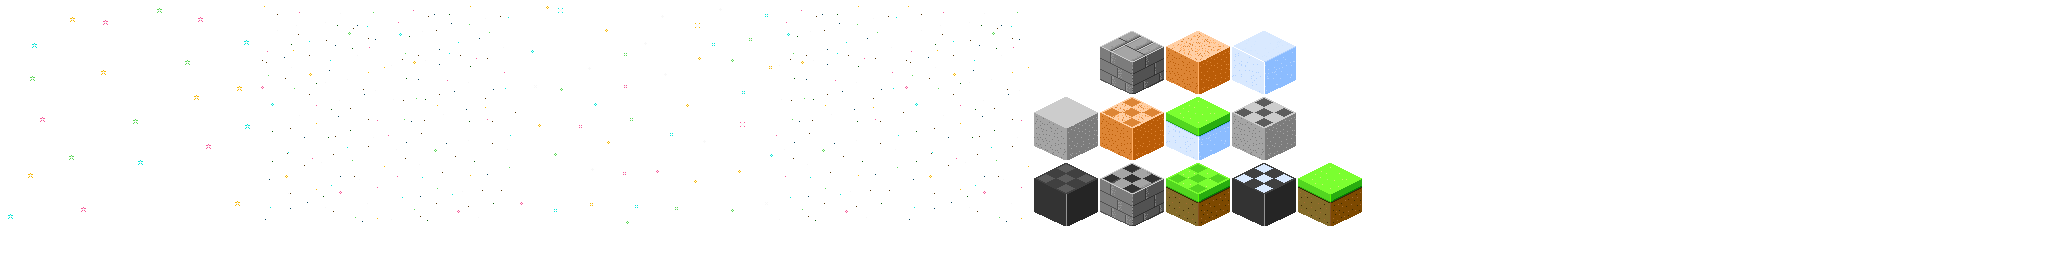
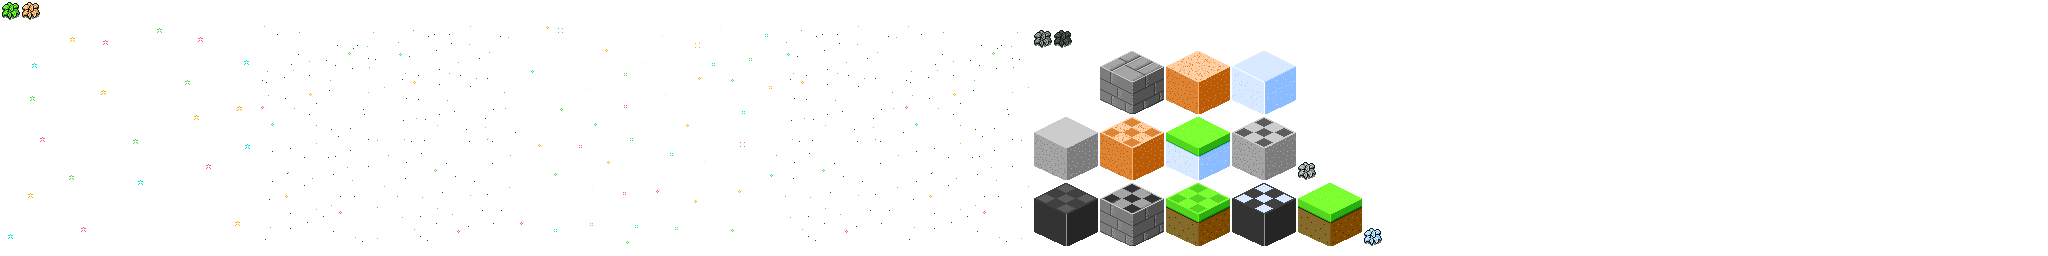
Added decor elements (bushes..).

Changed region(s): [[0.5, 0.125, 0.6875, 0.9688], [0.0, 0.0, 0.0312, 0.0938]]

diff --git a/core/src/eagea/nodeio/model/logic/map/ZoneM.java b/core/src/eagea/nodeio/model/logic/map/ZoneM.java
@@ -1,6 +1,9 @@
 package eagea.nodeio.model.logic.map;
 
+import com.badlogic.gdx.math.Vector2;
+
 import java.io.Serializable;
+import java.util.ArrayList;
 import java.util.Observable;
 
 /**
@@ -12,6 +15,9 @@ public class ZoneM extends Observable implements Serializable
 
     // Type of zone.
     public enum Type { BLACK, GRASS, GRAVEL, ROCK, SAND, SNOW }
+    // Max number of type of cells per zone.
+    public final int MAX_CELL_VOID = 5;
+    public final int MAX_CELL_BUSH = 5;
 
     // Width and height.
     public static final int SIZE = 5;
@@ -22,12 +28,45 @@ public class ZoneM extends Observable implements Serializable
     private Type mType;
     // Zone position in map.
     private final int mPositionInMap;
+    // Cells.
+    private final CellM[][] mCells;
 
     public ZoneM(String owner, Type type, int position)
     {
         mOwner = owner;
         mType = type;
         mPositionInMap = position;
+        mCells = new CellM[SIZE][SIZE];
+
+        generateCells();
+    }
+
+    private void generateCells()
+    {
+        ArrayList<Vector2> indexes = new ArrayList<>();
+        // Create cells and get their index.
+        for (int i = 0; i < SIZE; i ++)
+        {
+            for (int j = 0; j < SIZE; j ++)
+            {
+                mCells[i][j] = new CellM();
+                indexes.add(new Vector2(i, j));
+            }
+        }
+        // Get void cells.
+        for (int i = 0; i < Math.random() * MAX_CELL_VOID; i ++)
+        {
+            Vector2 void_cell = indexes.get((int) (Math.random() * indexes.size()));
+            indexes.remove(void_cell);
+            mCells[(int) void_cell.x][(int) void_cell.y].setType(CellM.Type.VOID);
+        }
+        // Get bush cells.
+        for (int i = 0; i < Math.random() * MAX_CELL_BUSH; i ++)
+        {
+            Vector2 bush_cell = indexes.get((int) (Math.random() * indexes.size()));
+            indexes.remove(bush_cell);
+            mCells[(int) bush_cell.x][(int) bush_cell.y].setType(CellM.Type.BUSH);
+        }
     }
 
     public void setOwner(String owner)
@@ -51,4 +90,9 @@ public class ZoneM extends Observable implements Serializable
     }
 
     public int getPositionInMap() { return mPositionInMap; }
+
+    public CellM[][] getCells()
+    {
+        return mCells;
+    }
 }

diff --git a/core/src/eagea/nodeio/model/logic/player/PlayerM.java b/core/src/eagea/nodeio/model/logic/player/PlayerM.java
@@ -6,6 +6,7 @@ import java.io.Serializable;
 import java.security.spec.PKCS8EncodedKeySpec;
 import java.util.Observable;
 
+import eagea.nodeio.model.logic.map.CellM;
 import eagea.nodeio.model.logic.map.MapM;
 import eagea.nodeio.model.logic.map.ZoneM;
 
@@ -46,6 +47,14 @@ public class PlayerM extends Observable implements Serializable
 
     public void moveRight()
     {
+        if (mMap.get(mZone).getCells()[(int) mPosition.x][(int) (mPosition.y - 1)].getType()
+                != CellM.Type.EMPTY)
+        {
+            // Cell is not empty (there is a bush
+            // or something else on it), can't go on it.
+            return;
+        }
+
         if (mPosition.y - 1 < 0)
         {
             // Next zone or impossible move.
@@ -72,6 +81,14 @@ public class PlayerM extends Observable implements Serializable
 
     public void moveLeft()
     {
+        if (mMap.get(mZone).getCells()[(int) mPosition.x][(int) (mPosition.y + 1)].getType()
+                != CellM.Type.EMPTY)
+        {
+            // Cell is not empty (there is a bush
+            // or something else on it), can't go on it.
+            return;
+        }
+
         if (mPosition.y + 1 >= ZoneM.SIZE)
         {
             // Next zone or impossible move.
@@ -98,6 +115,14 @@ public class PlayerM extends Observable implements Serializable
 
     public void moveUp()
     {
+        if (mMap.get(mZone).getCells()[(int) mPosition.x + 1][(int) (mPosition.y)].getType()
+                != CellM.Type.EMPTY)
+        {
+            // Cell is not empty (there is a bush
+            // or something else on it), can't go on it.
+            return;
+        }
+
         if (mPosition.x + 1 >= ZoneM.SIZE)
         {
             // Next zone or impossible move.
@@ -124,6 +149,14 @@ public class PlayerM extends Observable implements Serializable
 
     public void moveDown()
     {
+        if (mMap.get(mZone).getCells()[(int) mPosition.x - 1][(int) (mPosition.y)].getType()
+                != CellM.Type.EMPTY)
+        {
+            // Cell is not empty (there is a bush
+            // or something else on it), can't go on it.
+            return;
+        }
+
         if (mPosition.x - 1 < 0)
         {
             // Next zone or impossible move.

diff --git a/core/src/eagea/nodeio/view/object/game/map/CellV.java b/core/src/eagea/nodeio/view/object/game/map/CellV.java
@@ -19,6 +19,7 @@ import eagea.nodeio.view.View;
 public class CellV
 {
     public static final float TILE_SIZE = 2f;
+    public static final float BUSH_SIZE = 0.85f;
 
     // Model.
     private final ZoneM mZone;
@@ -45,13 +46,35 @@ public class CellV
                 new Vector3(mPlayer.getI(), mPlayer.getJ(), mPlayer.getZone()),
                 new Vector3(mPosition, mZone.getPositionInMap()));
 
-        // Draw.
-        Main.mBatch.draw(mTextures[0], coord.x, coord.y, TILE_SIZE, TILE_SIZE);
-
-        if (highlight)
+        // Switch the type of cell.
+        switch (mZone.getCells()[(int) mPosition.x][(int) mPosition.y].getType())
         {
-            // Highlight the player cells.
-            Main.mBatch.draw(mTextures[1], coord.x, coord.y, TILE_SIZE, TILE_SIZE);
+            case EMPTY:
+                // Draw.
+                Main.mBatch.draw(mTextures[0], coord.x, coord.y, TILE_SIZE, TILE_SIZE);
+
+                if (highlight)
+                {
+                    // Highlight the player cells.
+                    Main.mBatch.draw(mTextures[1], coord.x, coord.y, TILE_SIZE, TILE_SIZE);
+                }
+                break;
+            case VOID:
+                break;
+            case BUSH:
+                // Draw.
+                Main.mBatch.draw(mTextures[0], coord.x, coord.y, TILE_SIZE, TILE_SIZE);
+                Main.mBatch.draw(mTextures[2],
+                        coord.x + TILE_SIZE / 2f - BUSH_SIZE / 2f,
+                        coord.y + TILE_SIZE - TILE_SIZE / 4f - BUSH_SIZE / 2f,
+                        BUSH_SIZE, BUSH_SIZE);
+
+                if (highlight)
+                {
+                    // Highlight the player cells.
+                    Main.mBatch.draw(mTextures[1], coord.x, coord.y, TILE_SIZE, TILE_SIZE);
+                }
+                break;
         }
     }
 }

diff --git a/core/src/eagea/nodeio/view/object/game/map/ZoneV.java b/core/src/eagea/nodeio/view/object/game/map/ZoneV.java
@@ -32,7 +32,7 @@ public class ZoneV
             for (int j = 0; j < ZoneM.SIZE; j ++)
             {
                 mCells[i][j] = new CellV(mZone, mPlayer, i, j,
-                        new TextureRegion[]{ getCellTexture(), texture });
+                        new TextureRegion[]{ getCellTexture(), texture, getCellBushTexture() });
             }
         }
     }
@@ -57,6 +57,16 @@ public class ZoneV
         String name = mZone.getType().name().toLowerCase();
 
         return GameScreen.mEnvironmentAtlas.findRegion(name, (int) (Math.random() * 2d) + 1);
+    }
+
+    /**
+     * Return the bush texture for a cell of this zone.
+     */
+    private TextureRegion getCellBushTexture()
+    {
+        String name = mZone.getType().name().toLowerCase();
+
+        return GameScreen.mEnvironmentAtlas.findRegion("bush_" + name);
     }
 
     public ZoneM getZone()

diff --git a/core/src/eagea/nodeio/model/logic/map/CellM.java b/core/src/eagea/nodeio/model/logic/map/CellM.java
@@ -1,0 +1,34 @@
+package eagea.nodeio.model.logic.map;
+
+import java.io.Serializable;
+import java.util.Observable;
+
+/**
+ * A cell of a zone from the map.
+ */
+public class CellM extends Observable implements Serializable
+{
+    private static final long serialVersionUID = 8727742012328555099L;
+
+    // Type of zone.
+    public enum Type { EMPTY, BUSH, VOID }
+
+    // Type of cell.
+    private Type mType;
+
+    public CellM()
+    {
+        // Default.
+        mType = Type.EMPTY;
+    }
+
+    public void setType(Type type)
+    {
+        mType = type;
+    }
+
+    public Type getType()
+    {
+        return mType;
+    }
+}

diff --git a/README.md b/README.md
@@ -16,3 +16,5 @@
 * Tiles made by **[Ajay Karat | Devil's Work.shop](https://www.devilswork.shop/)**.
 
 * Character made by **[Gamekrazzy](https://gamekrazzy.itch.io/)**.
+
+* Bushes made by **[Dreammix](https://dreammix.itch.io/)**.
